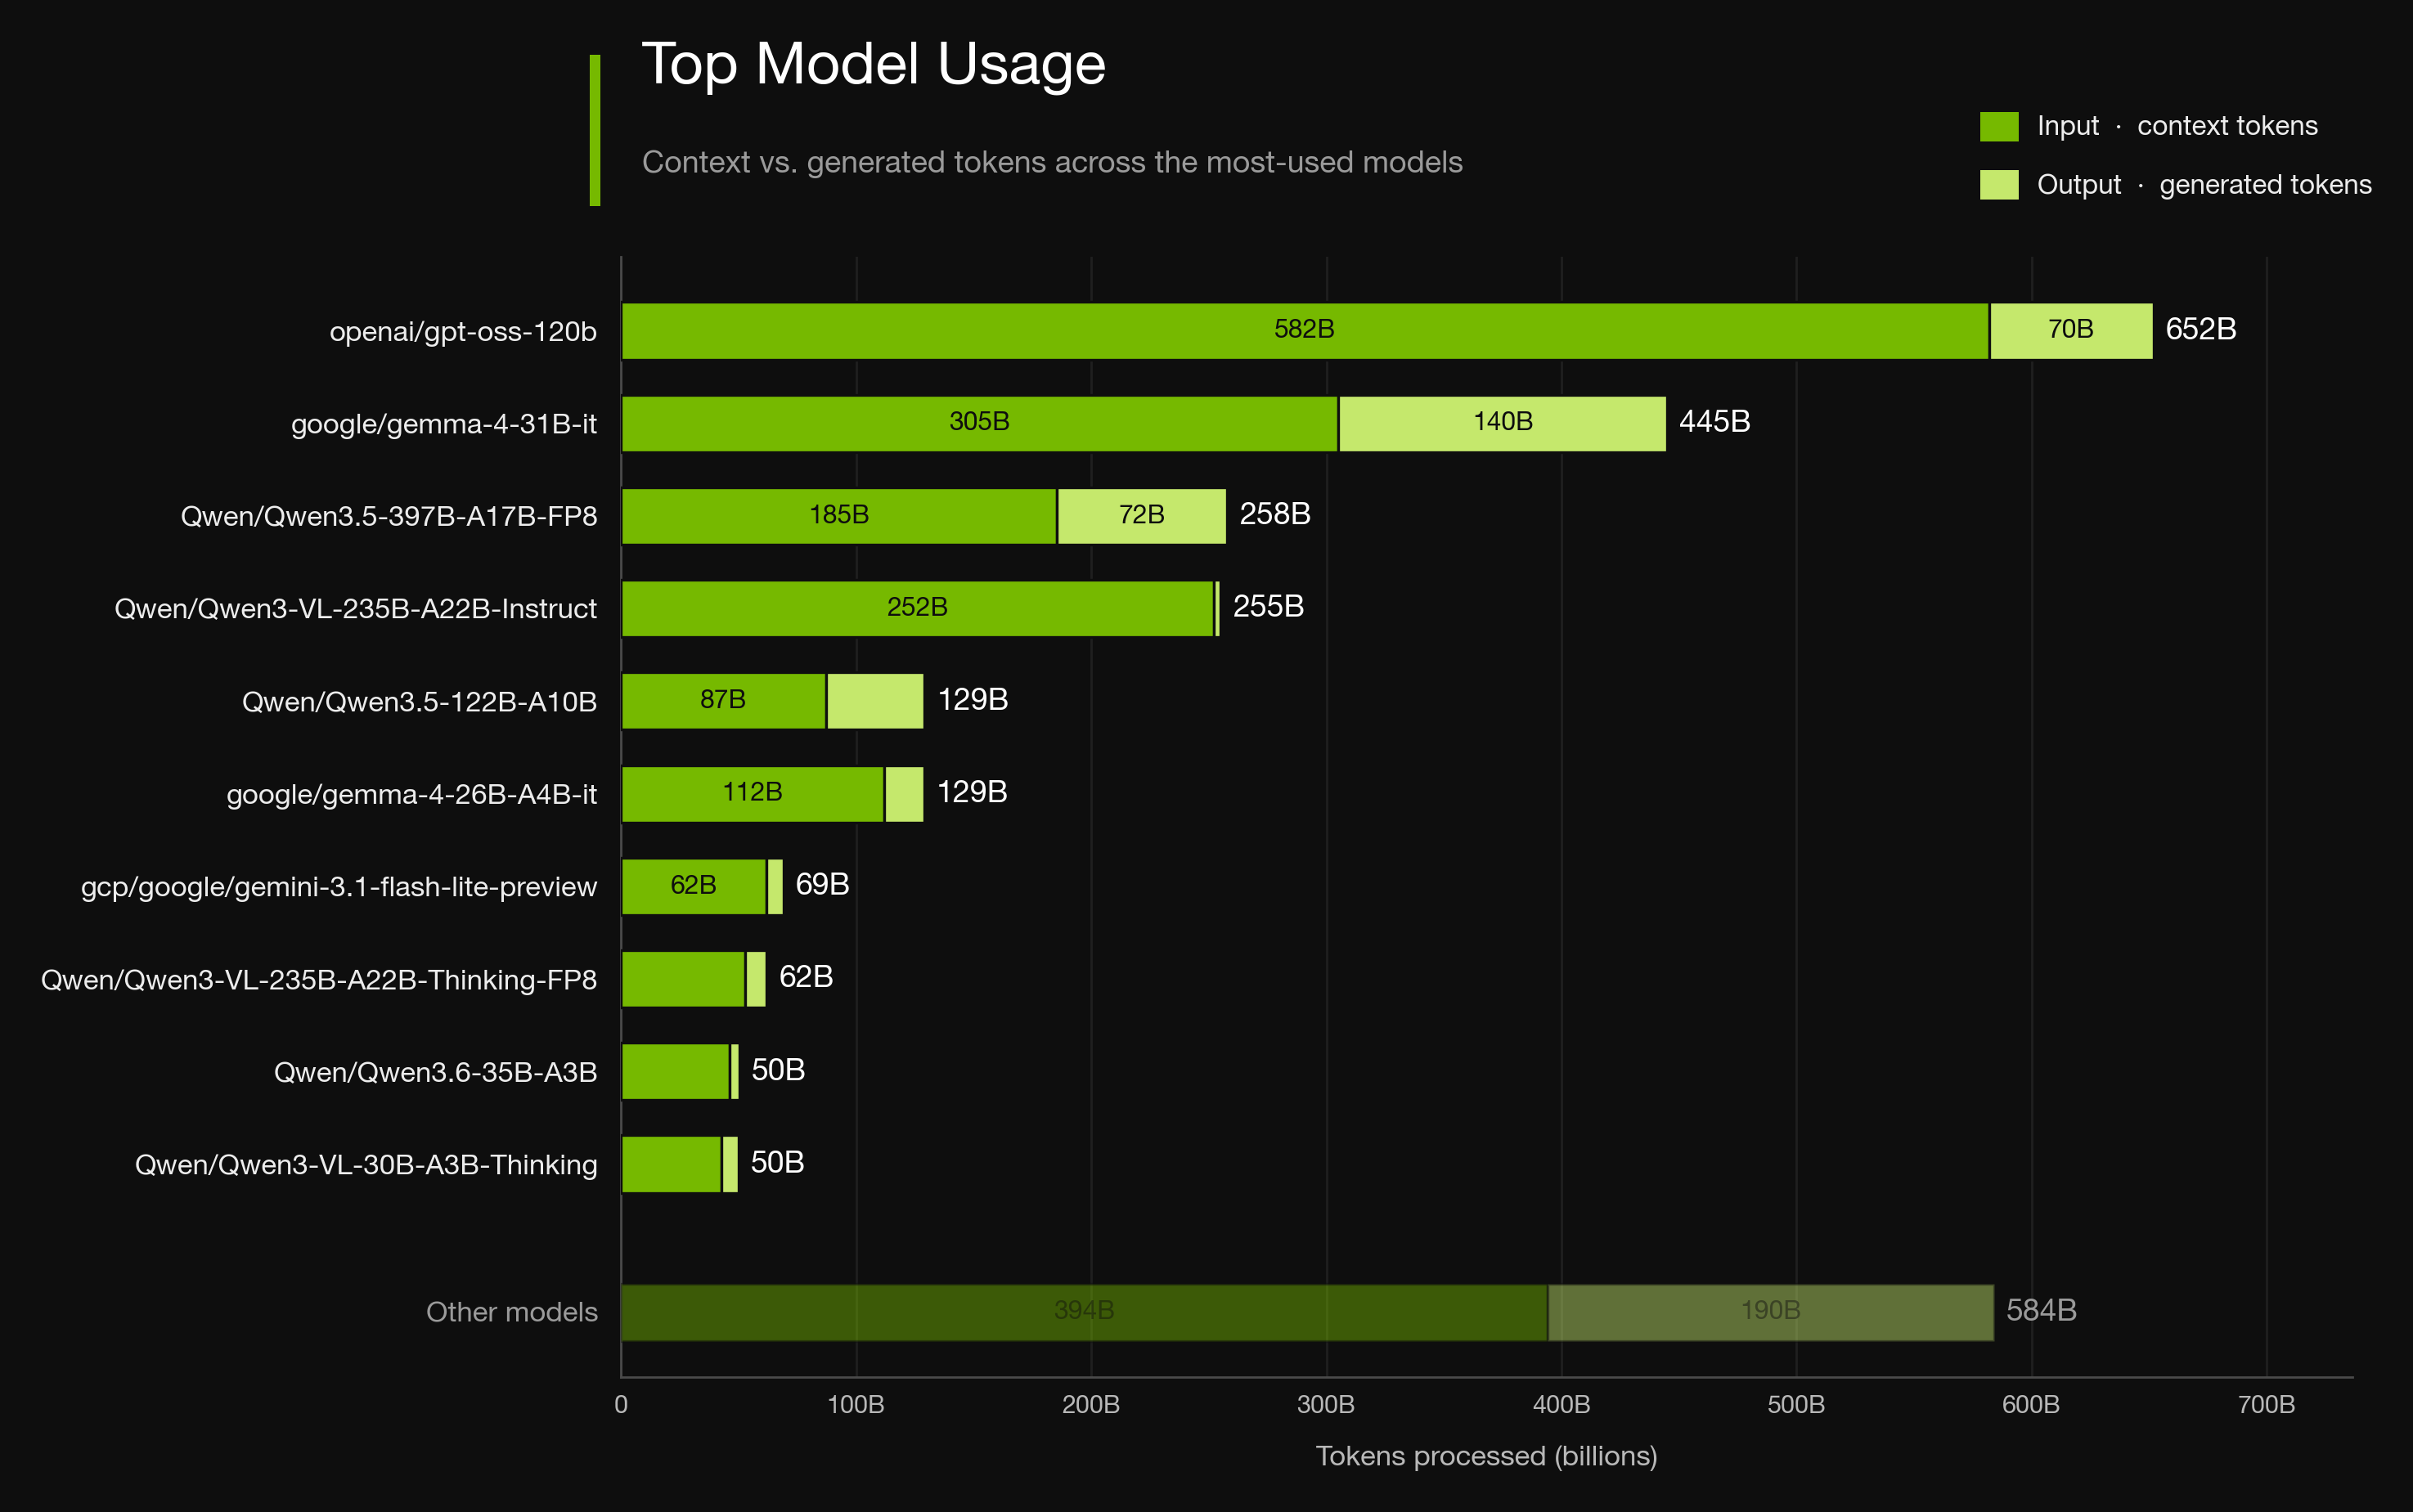
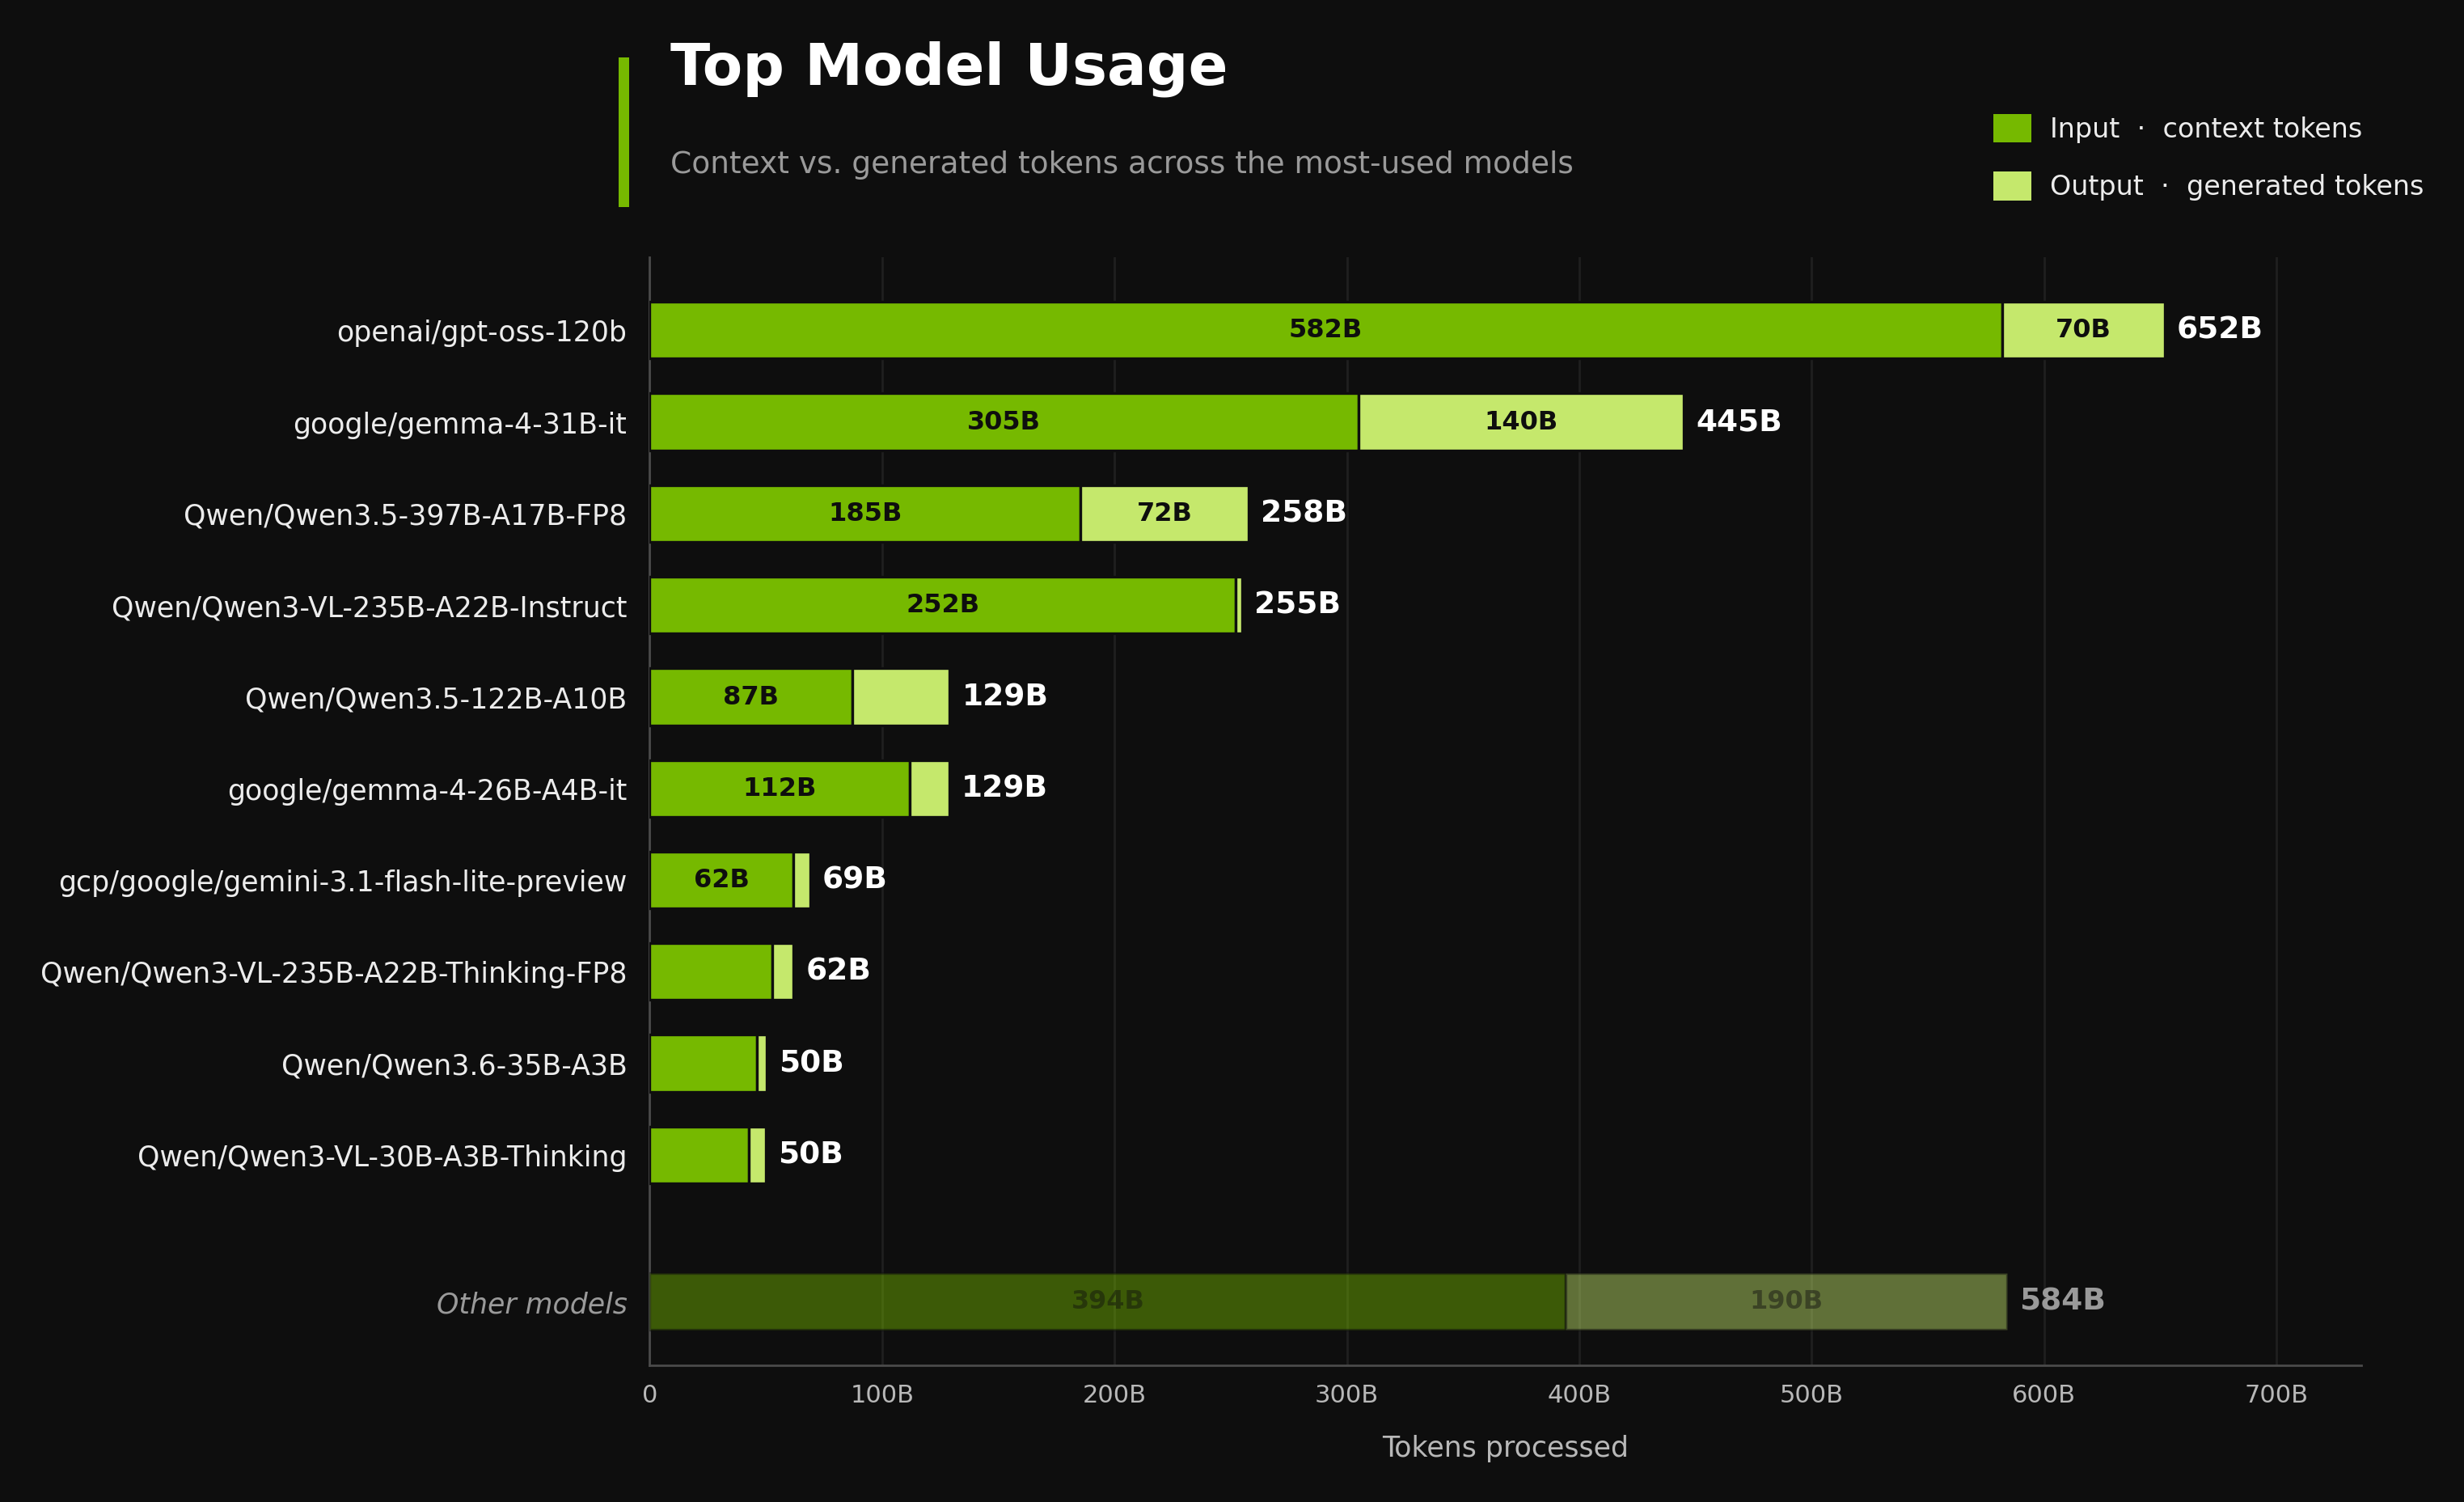
docs: address review on top-models figure
Pin matplotlib==3.9.4 and force matplotlib's bundled DejaVu Sans (drop opportunistic Helvetica/Arial) so the checked-in PNG is byte-reproducible across machines and CI, not dependent on locally installed fonts.

Derive x-axis ticks from the data (MaxNLocator + the existing fmt() helper, which promotes B -> T) instead of hard-coding 0..700B, so future refreshes can't mislabel the axis.

Drop the unreferenced fern/assets/images/top-models.png; docs/images/ (README) and fern/images/ (Fern's /images/* mirror) are the only consumers.

diff --git a/docs/scripts/generate_top_models_figure.py b/docs/scripts/generate_top_models_figure.py
@@ -3,7 +3,7 @@
 # /// script
 # requires-python = ">=3.10"
 # dependencies = [
-#     "matplotlib>=3.9,<4",
+#     "matplotlib==3.9.4",
 # ]
 # ///
 """Regenerate the "Top Model Usage" telemetry figure.
@@ -39,17 +39,18 @@ import csv
 import shutil
 from pathlib import Path
 
-import matplotlib.font_manager as fm
 import matplotlib.pyplot as plt
 from matplotlib import rcParams
+from matplotlib.ticker import FuncFormatter, MaxNLocator
 
 # Repo root is two levels up from docs/scripts/.
 REPO_ROOT = Path(__file__).resolve().parents[2]
 DEFAULT_CSV = REPO_ROOT / "docs" / "scripts" / "top-model-usage.csv"
-# Every tracked copy of the figure; first entry is the canonical render target.
+# Tracked copies of the figure; first entry is the canonical render target.
+# docs/images/ is what the README renders; fern/images/ is Fern's mirror for
+# /images/* references.
 TARGETS = (
     REPO_ROOT / "docs" / "images" / "top-models.png",
-    REPO_ROOT / "fern" / "assets" / "images" / "top-models.png",
     REPO_ROOT / "fern" / "images" / "top-models.png",
 )
 
@@ -79,13 +80,16 @@ def load_rows(csv_path: Path) -> list[tuple[str, float, float]]:
     return rows
 
 
-def select_font() -> None:
-    """Prefer a Helvetica-family face; fall back to the matplotlib default."""
-    available = {f.name for f in fm.fontManager.ttflist}
-    for fam in ("Helvetica Neue", "Helvetica", "Arial"):
-        if fam in available:
-            rcParams["font.family"] = fam
-            break
+def configure_matplotlib() -> None:
+    """Pin rendering to deterministic settings so the asset is reproducible.
+
+    Forces the Agg backend and matplotlib's bundled DejaVu Sans face rather than
+    opportunistically selecting a system Helvetica/Arial. Combined with the
+    pinned matplotlib version in the script metadata, this keeps the checked-in
+    PNG byte-reproducible across machines and CI.
+    """
+    plt.switch_backend("Agg")
+    rcParams["font.family"] = "DejaVu Sans"
     rcParams["font.size"] = 13
 
 
@@ -182,12 +186,13 @@ def render(rows: list[tuple[str, float, float]], out_path: Path) -> None:
     ax.set_xlim(0, xmax * 1.13)
     ax.set_ylim(-1.3, n + 0.8)
 
-    xticks = [0, 100, 200, 300, 400, 500, 600, 700]
-    ax.set_xticks(xticks)
-    ax.set_xticklabels([f"{t}B" if t else "0" for t in xticks], color=AXIS, fontsize=11)
+    # Derive ticks from the data so the axis stays sane as totals grow; fmt()
+    # promotes B -> T automatically, so the labels never need hand-editing.
+    ax.xaxis.set_major_locator(MaxNLocator(nbins=8, steps=[1, 2, 2.5, 5, 10]))
+    ax.xaxis.set_major_formatter(FuncFormatter(lambda v, _pos: "0" if v <= 0 else fmt(v * B)))
     ax.tick_params(axis="y", length=0, pad=10)
-    ax.tick_params(axis="x", colors=AXIS, length=0, pad=8)
-    ax.set_xlabel("Tokens processed (billions)", color=AXIS, fontsize=12.5, labelpad=12)
+    ax.tick_params(axis="x", colors=AXIS, length=0, pad=8, labelsize=11)
+    ax.set_xlabel("Tokens processed", color=AXIS, fontsize=12.5, labelpad=12)
 
     ax.xaxis.grid(True, color=GRID, alpha=0.07, linewidth=1, zorder=0)
     ax.set_axisbelow(True)
@@ -263,7 +268,7 @@ def main() -> None:
     parser.add_argument("--csv", type=Path, default=DEFAULT_CSV, help=f"Telemetry export CSV (default: {DEFAULT_CSV})")
     args = parser.parse_args()
 
-    select_font()
+    configure_matplotlib()
     rows = load_rows(args.csv)
 
     primary, *mirrors = TARGETS